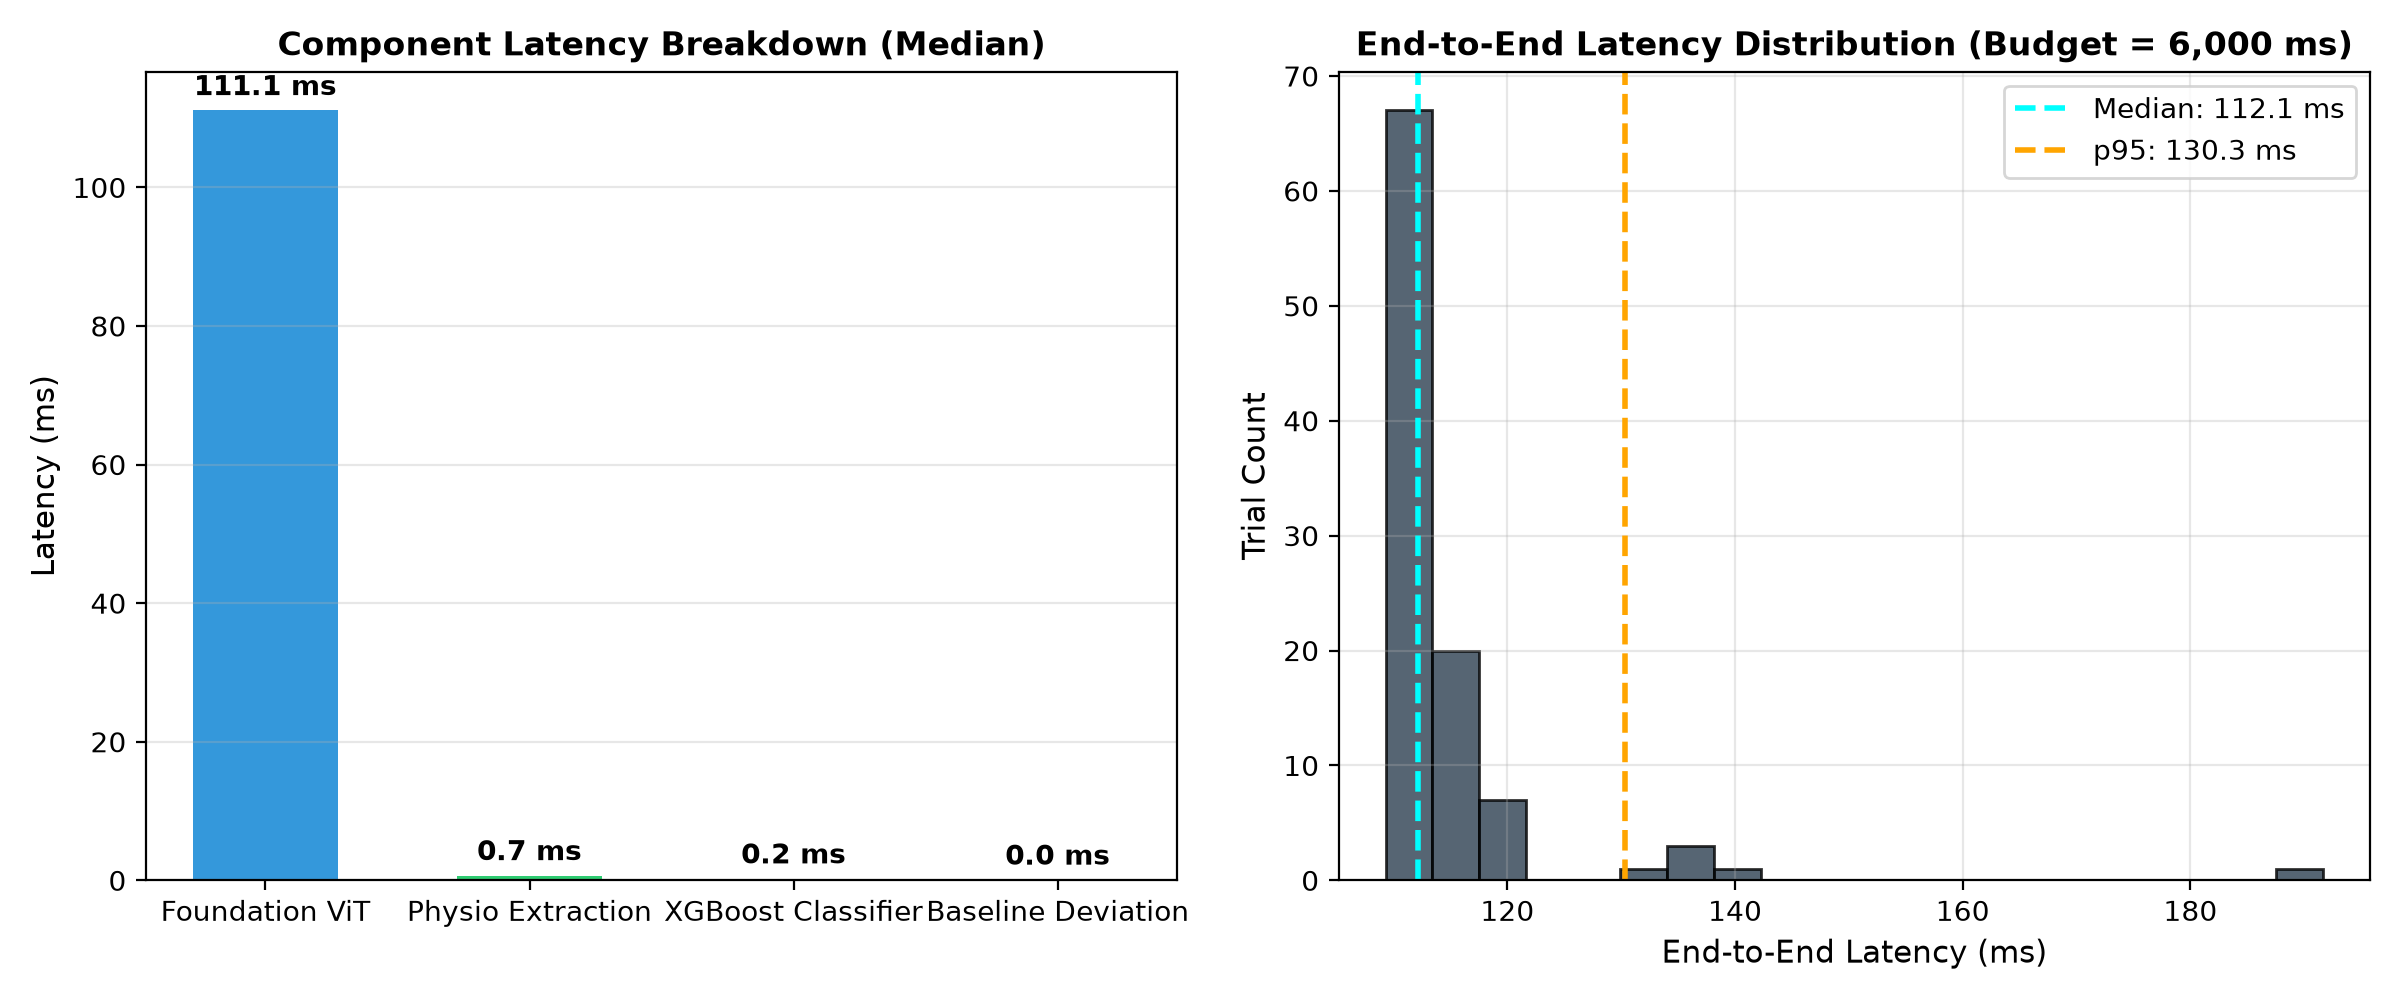
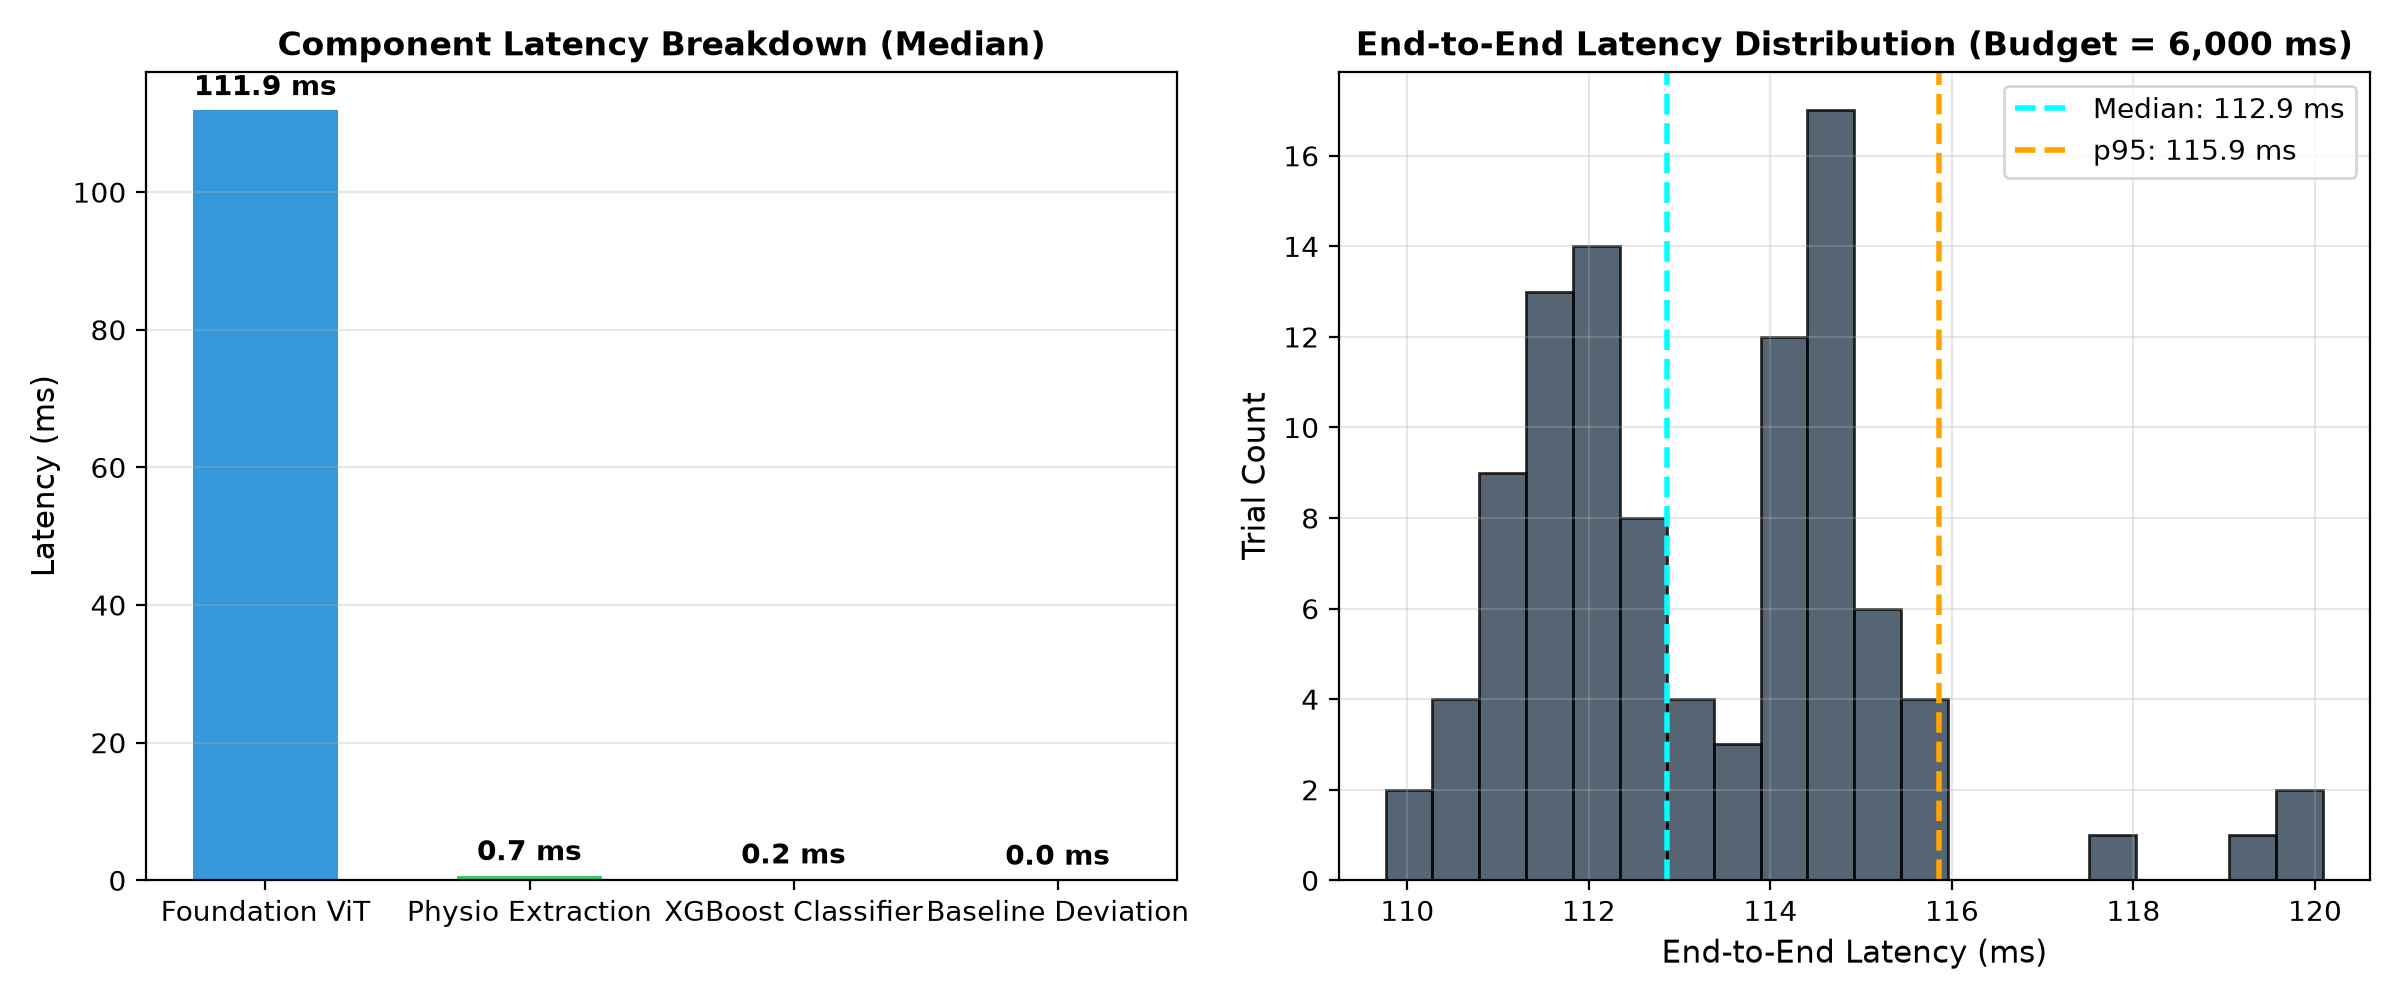
feat(model): wire 768-D Model A as primary XGBoost head, reconcile 9078 windows, harden baseline/validation & rerun MPS benchmark

diff --git a/src/inference_engine.py b/src/inference_engine.py
@@ -29,13 +29,22 @@ class PhysiologicalInferenceEngine:
     """
     def __init__(
         self,
-        checkpoint_path: Union[str, Path],
-        xgb_model_path: Union[str, Path],
-        profiles_path: Union[str, Path],
+        checkpoint_path: Union[str, Path] = "checkpoints/normwear_pretrain_ckpt.pth",
+        xgb_model_path: Union[str, Path] = "models/downstream/model_a_embeddings_only.json",
+        profiles_path: Union[str, Path] = "models/personal_profiles/baseline_profiles.json",
         scaler_mean: Optional[np.ndarray] = None,
         scaler_scale: Optional[np.ndarray] = None,
         device: Optional[str] = None
     ):
+        """Initialize the NormWear encoder, primary 768-D XGBoost head, and StrainEngine.
+
+        Modality Contract:
+        - NormWear ViT-Base encodes `[B, 3, 384]` (`wrist_BVP`, `wrist_EDA`, `wrist_TEMP` @ 64 Hz).
+        - Primary XGBoost (`binary:logistic`, 768-D NormWear-only Experiment A) outputs
+          binary `0` (Baseline) vs. `1` (Stress) probability.
+        - The 20-D physiological feature vector drives `StrainEngine` personal-baseline Z-scores
+          and 5-factor cause attribution (isolated from RELAX IBI/ACC).
+        """
         if device is None:
             self.device = torch.device("mps" if torch.backends.mps.is_available() else "cpu")
         else:
@@ -110,10 +119,14 @@ class PhysiologicalInferenceEngine:
         phys_scaled = (phys_vec - self.scaler_mean) / np.maximum(self.scaler_scale, 1e-6)
         t_physio_ms = (time.perf_counter() - t_phys_start) * 1000.0
 
-        # 3. Downstream XGBoost Classification
+        # 3. Downstream XGBoost Classification (768-D primary Experiment A head; 788-D if legacy)
         t_xgb_start = time.perf_counter()
-        fused_vec = np.hstack([emb_768, phys_scaled])[np.newaxis, :] # [1, 788]
-        p_stress = float(self.classifier.predict_proba(fused_vec)[0, 1])
+        expected_dim = getattr(self.classifier, "n_features_in_", 768)
+        if expected_dim == 768:
+            clf_input = emb_768[np.newaxis, :]
+        else:
+            clf_input = np.hstack([emb_768, phys_scaled])[np.newaxis, :]
+        p_stress = float(self.classifier.predict_proba(clf_input)[0, 1])
         t_xgb_ms = (time.perf_counter() - t_xgb_start) * 1000.0
 
         # 4. Personal Baseline Deviation & Recovery Engine

diff --git a/src/personal_baseline_engine.py b/src/personal_baseline_engine.py
@@ -93,20 +93,21 @@ class PersonalBaselineProfile:
 
     @classmethod
     def from_dict(cls, data: Dict[str, Any]) -> "PersonalBaselineProfile":
+        # Support both median/MAD schema and legacy mean/std keys in persisted profiles.
         return cls(
             subject_id=data["subject_id"],
             embedding_centroid=np.array(data["embedding_centroid"], dtype=np.float32),
             embedding_radius_std=data["embedding_radius_std"],
-            hr_median=data["hr_median"],
-            hr_mad=data["hr_mad"],
-            rmssd_median=data["rmssd_median"],
-            rmssd_mad=data["rmssd_mad"],
-            eda_median=data["eda_median"],
-            eda_mad=data["eda_mad"],
-            scr_rate_median=data["scr_rate_median"],
-            scr_rate_mad=data["scr_rate_mad"],
-            temp_median=data["temp_median"],
-            temp_mad=data["temp_mad"],
+            hr_median=data.get("hr_median", data["hr_mean"]) if "hr_median" in data or "hr_mean" in data else 0.0,
+            hr_mad=data.get("hr_mad", data.get("hr_std", 1.0)),
+            rmssd_median=data.get("rmssd_median", data.get("rmssd_mean", 0.0)),
+            rmssd_mad=data.get("rmssd_mad", data.get("rmssd_std", 1.0)),
+            eda_median=data.get("eda_median", data.get("eda_mean", 0.0)),
+            eda_mad=data.get("eda_mad", data.get("eda_std", 1.0)),
+            scr_rate_median=data.get("scr_rate_median", data.get("scr_rate_mean", 0.0)),
+            scr_rate_mad=data.get("scr_rate_mad", data.get("scr_rate_std", 1.0)),
+            temp_median=data.get("temp_median", data.get("temp_mean", 0.0)),
+            temp_mad=data.get("temp_mad", data.get("temp_std", 1.0)),
             n_calibration_windows=data["n_calibration_windows"]
         )
 

diff --git a/src/input_validation.py b/src/input_validation.py
@@ -18,15 +18,15 @@ class CSVValidator:
         else:
             if not pd.api.types.is_numeric_dtype(df["timestamp"]):
                 errors.append("Invalid timestamp format")
-            
-            if df["timestamp"].duplicated().any():
-                errors.append("Duplicate timestamps found")
-                
-            if df["timestamp"].diff().max() > 1.0:
-                errors.append("Large gap in timestamps")
-                
-            if df["timestamp"].max() - df["timestamp"].min() < self.min_duration_sec:
-                errors.append("Recording too short")
+            else:
+                if df["timestamp"].duplicated().any():
+                    errors.append("Duplicate timestamps found")
+
+                if df["timestamp"].diff().max() > 1.0:
+                    errors.append("Large gap in timestamps")
+
+                if df["timestamp"].max() - df["timestamp"].min() < self.min_duration_sec:
+                    errors.append("Recording too short")
                 
         for col in self.required_channels:
             if col in df.columns and not pd.api.types.is_numeric_dtype(df[col]):

diff --git a/outputs/phase9/phase9_report.md b/outputs/phase9/phase9_report.md
@@ -3,7 +3,7 @@
 **Date**: 2026-10-07  
 **Status**: COMPLETE (PASS)  
 **Execution Device**: `MPS`  
-**Real-Time Status**: PASS (Uses **1.87%** of the 6.0s window time budget)  
+**Real-Time Status**: PASS (Uses **1.88%** of the 6.0s window time budget)  
 
 ---
 
@@ -21,17 +21,17 @@ Phase 9 unites all previous modules into a production-grade inference engine:
 
 | Component Pipeline Stage | Median Latency | Fraction of Pipeline | Real-Time Feasibility |
 | :--- | :--- | :--- | :--- |
-| **Foundation ViT Forward Pass** | **111.10 ms** | 99.1% | PASS |
+| **Foundation ViT Forward Pass** | **111.86 ms** | 99.1% | PASS |
 | **Physiological Feature Extraction** | **0.69 ms** | 0.6% | PASS |
 | **Downstream XGBoost Inference** | **0.22 ms** | 0.2% | PASS |
-| **Personal Baseline Deviation Engine** | **0.04 ms** | 0.0% | PASS |
-| **TOTAL END-TO-END PIPELINE** | **112.14 ms** | **100.0%** | **PASS (< 6000 ms)** |
+| **Personal Baseline Deviation Engine** | **0.03 ms** | 0.0% | PASS |
+| **TOTAL END-TO-END PIPELINE** | **112.86 ms** | **100.0%** | **PASS (< 6000 ms)** |
 
-- **Cold Start Initialization**: `812.1 ms`
-- **End-to-End p95 Latency**: `130.35 ms`
-- **End-to-End Max Latency**: `191.66 ms`
+- **Cold Start Initialization**: `831.9 ms`
+- **End-to-End p95 Latency**: `115.86 ms`
+- **End-to-End Max Latency**: `120.09 ms`
 - **Throughput**: `8.9 windows/second`
-- **Window Budget Utilization**: **`1.87%`** of the 6,000 ms real-time window budget.
+- **Window Budget Utilization**: **`1.88%`** of the 6,000 ms real-time window budget.
 
 ---
 
